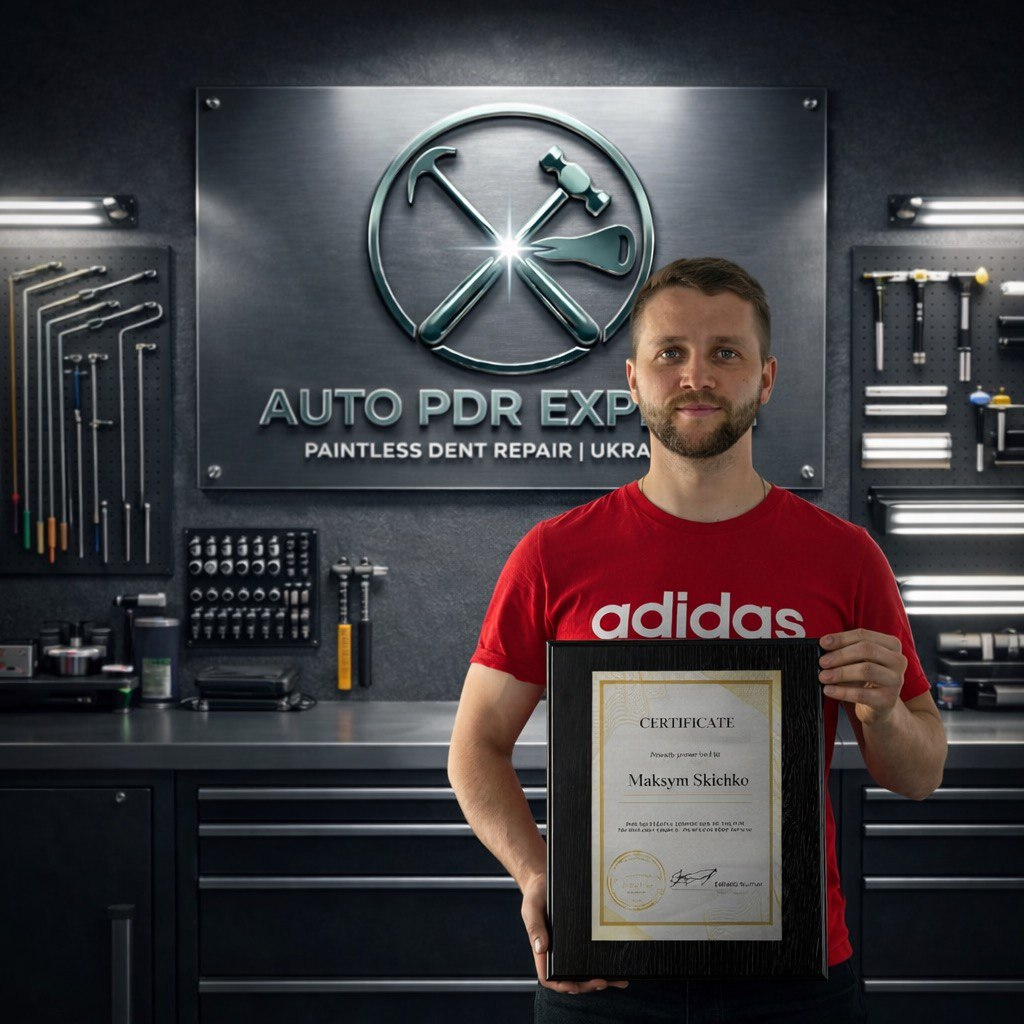
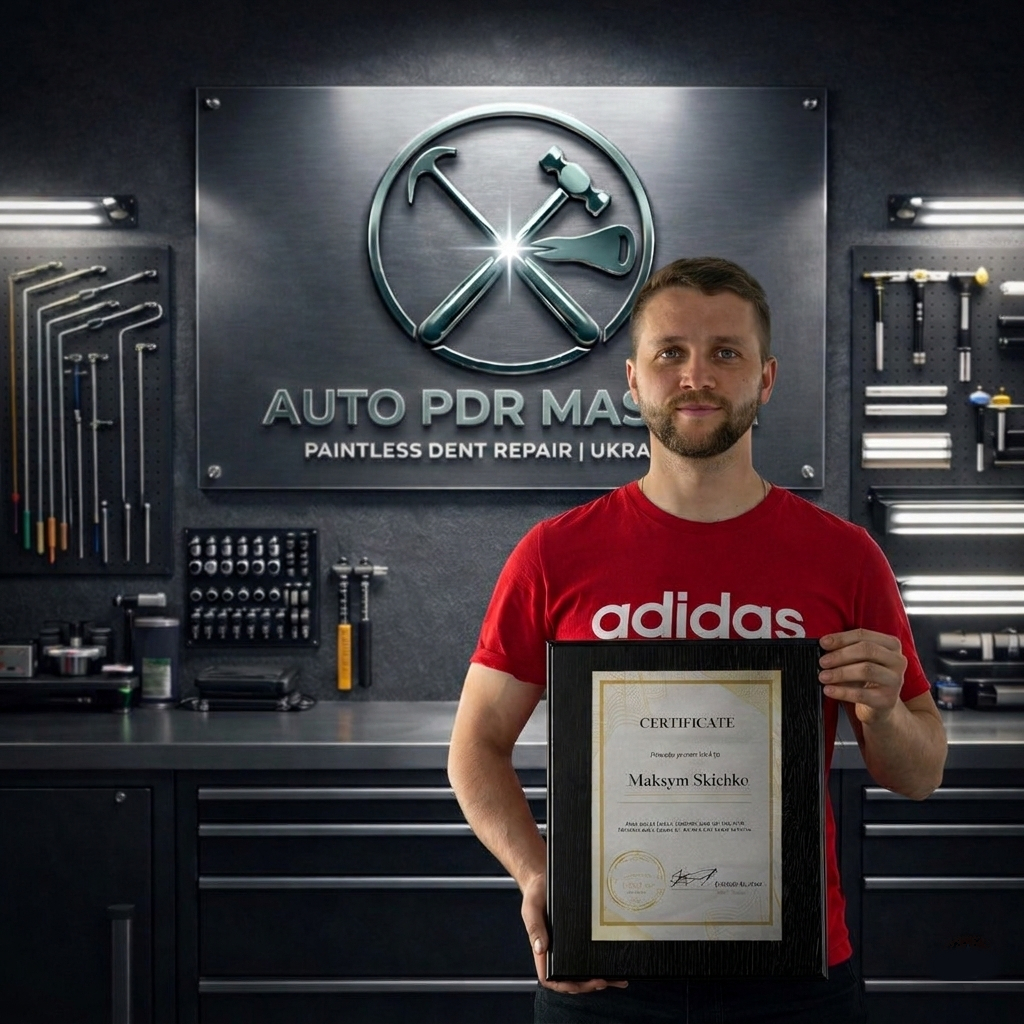
renew of service name

Changed region(s): [[0.25, 0.375, 0.6562, 0.4375]]

diff --git a/src/components/Awards.tsx b/src/components/Awards.tsx
@@ -1,34 +1,21 @@
 import { motion, AnimatePresence } from "motion/react";
 import { useEffect, useState } from "react";
 
-const awards = [
-  {
-    title: "Нагорода 1",
-    description: "Опис нагороди 1",
-    image: "images/certificate.jpg",
-    year: "2024",
-    category: "Якість",
-  },
-  {
-    title: "Нагорода 2",
-    description: "Опис нагороди 2",
-    image: "images/certificate.jpg",
-    year: "2023",
-    category: "Сервіс",
-  },
-];
+const award = {
+  title: "Диплом",
+  description: "Опис диплому",
+  image: "images/certificate.jpg",
+  year: "2024",
+  category: "Якість",
+};
 
 export const Awards = () => {
-  const [selected, setSelected] = useState<number | null>(null);
+  const [lightbox, setLightbox] = useState(false);
 
   useEffect(() => {
-    if (selected !== null) {
-      document.body.style.overflow = "hidden";
-    } else {
-      document.body.style.overflow = "";
-    }
+    document.body.style.overflow = lightbox ? "hidden" : "";
     return () => { document.body.style.overflow = ""; };
-  }, [selected]);
+  }, [lightbox]);
 
   return (
     <section className="bg-[var(--main-black)] py-24 relative overflow-hidden" id="awards">
@@ -36,128 +23,126 @@ export const Awards = () => {
       <div className="absolute top-1/2 left-0 w-96 h-96 bg-[var(--main-green)]/6 rounded-full blur-[150px] pointer-events-none -translate-y-1/2" />
 
       <div className="max-w-7xl mx-auto px-6 sm:px-10 lg:px-16">
-
-        {/* Заголовок */}
-        <div className="flex flex-col items-center text-center mb-16">
-          <motion.span
-            className="text-[var(--main-green-light)] text-sm font-semibold tracking-[0.3em] uppercase mb-4"
-            initial={{ opacity: 0, y: 20 }} whileInView={{ opacity: 1, y: 0 }}
-            transition={{ duration: 0.6 }} viewport={{ once: true }}
+        <motion.div
+          className="flex flex-col lg:flex-row gap-12 items-center"
+          initial={{ opacity: 0, y: 40 }}
+          whileInView={{ opacity: 1, y: 0 }}
+          transition={{ duration: 0.8 }}
+          viewport={{ once: true, amount: 0.1 }}
+        >
+          {/* Фото диплому */}
+          <motion.div
+            className="relative w-full lg:w-2/5 flex-shrink-0 cursor-pointer group"
+            onClick={() => setLightbox(true)}
+            whileHover={{ y: -4 }}
+            transition={{ duration: 0.3 }}
           >
-            Визнання
-          </motion.span>
+            <div className="absolute -top-3 -left-3 w-10 h-10 border-t-2 border-l-2 border-[var(--main-green)] z-10" />
+            <div className="absolute -bottom-3 -right-3 w-10 h-10 border-b-2 border-r-2 border-[var(--main-green)] z-10" />
 
-          <div className="flex flex-row items-center gap-4 mb-4">
-            <motion.div className="h-px w-12 bg-[var(--main-green-muted)]"
-              initial={{ scaleX: 0 }} whileInView={{ scaleX: 1 }}
-              transition={{ duration: 0.6, delay: 0.2 }} viewport={{ once: true }} />
-            <motion.h2
-              className="text-4xl sm:text-5xl font-black text-white"
-              style={{ fontFamily: "var(--font-display)" }}
-              initial={{ opacity: 0, y: 20 }} whileInView={{ opacity: 1, y: 0 }}
-              transition={{ duration: 0.6, delay: 0.2 }} viewport={{ once: true }}
-            >
-              Наші <span className="text-[var(--main-green-light)]">нагороди</span>
-            </motion.h2>
-            <motion.div className="h-px w-12 bg-[var(--main-green-muted)]"
-              initial={{ scaleX: 0 }} whileInView={{ scaleX: 1 }}
-              transition={{ duration: 0.6, delay: 0.2 }} viewport={{ once: true }} />
-          </div>
+            <div className="overflow-hidden rounded-sm border border-white/8 group-hover:border-[var(--main-green-muted)]/60 transition-colors duration-500">
+              <img
+                src={award.image}
+                alt={award.title}
+                className="w-full object-cover transition-transform duration-700 group-hover:scale-105"
+              />
+            </div>
 
-          <motion.p className="text-white/50 text-base max-w-xl"
-            initial={{ opacity: 0, y: 20 }} whileInView={{ opacity: 1, y: 0 }}
-            transition={{ duration: 0.6, delay: 0.3 }} viewport={{ once: true }}
-          >
-            Підтвердження нашої якості та професіоналізму
-          </motion.p>
-        </div>
+            {/* Збільшити підказка */}
+            <div className="absolute inset-0 flex items-center justify-center opacity-0 group-hover:opacity-100 transition-opacity duration-300">
+              <span className="bg-black/70 backdrop-blur-sm text-white text-xs tracking-widest uppercase px-4 py-2 border border-white/20 rounded-sm">
+                Переглянути ↗
+              </span>
+            </div>
 
-        {/* Картки */}
-        <div className="flex flex-col gap-6">
-          {awards.map((award, i) => (
-            <motion.div
-              key={i}
-              className="group relative border border-white/8 rounded-sm overflow-hidden
-                hover:border-[var(--main-green-muted)]/60 hover:bg-[var(--main-green)]/[0.03]
-                transition-all duration-500 cursor-pointer"
-              initial={{ opacity: 0, y: 40 }}
+            {/* Рік */}
+            <div className="absolute top-4 left-4 bg-[var(--main-green)] text-white text-xs font-bold px-3 py-1 tracking-widest z-10">
+              {award.year}
+            </div>
+          </motion.div>
+
+          {/* Текст */}
+          <div className="w-full lg:w-3/5">
+            <motion.span
+              className="text-[var(--main-green-light)] text-sm font-semibold tracking-[0.3em] uppercase mb-4 block"
+              initial={{ opacity: 0, y: 20 }}
               whileInView={{ opacity: 1, y: 0 }}
-              transition={{ duration: 0.7, delay: i * 0.15 }}
-              viewport={{ once: true, amount: 0.1 }}
-              onClick={() => setSelected(i)}
-              whileHover={{ y: -4 }}
+              transition={{ duration: 0.6, delay: 0.1 }}
+              viewport={{ once: true }}
             >
-              <div className="absolute top-0 left-0 w-0 h-0.5 bg-[var(--main-green)] group-hover:w-full transition-all duration-500 z-10" />
+              Визнання
+            </motion.span>
 
-              <div className="flex flex-col md:flex-row items-stretch">
+            <div className="flex flex-row items-start gap-3 mb-6">
+              <motion.div
+                className="w-1 bg-[var(--main-green)] rounded-full self-stretch"
+                initial={{ scaleY: 0 }}
+                whileInView={{ scaleY: 1 }}
+                transition={{ duration: 0.7, delay: 0.2 }}
+                viewport={{ once: true }}
+                style={{ originY: 0 }}
+              />
+              <motion.h2
+                className="text-4xl sm:text-5xl font-black text-white leading-tight"
+                style={{ fontFamily: "var(--font-display)" }}
+                initial={{ opacity: 0, x: -30 }}
+                whileInView={{ opacity: 1, x: 0 }}
+                transition={{ duration: 0.7, delay: 0.3 }}
+                viewport={{ once: true }}
+              >
+                Наші <span className="text-[var(--main-green-light)]">нагороди</span>
+              </motion.h2>
+            </div>
 
-                {/* Фото */}
-                <div className="relative w-full md:w-64 h-48 md:h-auto flex-shrink-0 overflow-hidden">
-                  <img
-                    src={award.image}
-                    alt={award.title}
-                    className="w-full h-full object-cover transition-transform duration-700 group-hover:scale-110"
-                  />
-                  <div className="absolute inset-0 bg-gradient-to-r from-transparent to-[var(--main-black)] hidden md:block" />
-                  <div className="absolute top-3 left-3 bg-[var(--main-green)] text-white text-xs font-bold px-3 py-1 tracking-widest">
-                    {award.year}
-                  </div>
-                </div>
+            <motion.span
+              className="inline-flex items-center gap-2 text-[var(--main-green-light)] text-xs font-semibold tracking-[0.2em] uppercase border border-[var(--main-green-muted)]/50 px-3 py-1.5 rounded-sm mb-6"
+              initial={{ opacity: 0, y: 10 }}
+              whileInView={{ opacity: 1, y: 0 }}
+              transition={{ duration: 0.5, delay: 0.35 }}
+              viewport={{ once: true }}
+            >
+              {award.category}
+            </motion.span>
 
-                {/* Контент */}
-                <div className="flex flex-col justify-center px-8 py-6 flex-1 bg-white/[0.01] group-hover:bg-white/[0.03] transition-colors duration-500">
-                  <div className="flex items-center gap-3 mb-3">
-                    <span className="text-[var(--main-green-light)] text-xs font-semibold tracking-[0.2em] uppercase border border-[var(--main-green-muted)]/50 px-2 py-0.5 rounded-sm">
-                      {award.category}
-                    </span>
-                  </div>
+            <motion.p
+              className="text-white/50 leading-relaxed text-base mb-8"
+              initial={{ opacity: 0, y: 20 }}
+              whileInView={{ opacity: 1, y: 0 }}
+              transition={{ duration: 0.6, delay: 0.4 }}
+              viewport={{ once: true }}
+            >
+              {award.description}
+            </motion.p>
 
-                  <h3
-                    className="text-2xl font-black text-white mb-3 group-hover:text-[var(--main-green-light)] transition-colors duration-300"
-                    style={{ fontFamily: "var(--font-display)" }}
-                  >
-                    {award.title}
-                  </h3>
-
-                  <p className="text-white/50 leading-relaxed text-sm max-w-xl group-hover:text-white/70 transition-colors duration-300">
-                    {award.description}
-                  </p>
-
-                  <div className="mt-4">
-                    <span className="opacity-0 group-hover:opacity-100 transition-opacity duration-300 flex items-center gap-2 text-[var(--main-green-light)] text-xs font-semibold tracking-widest uppercase">
-                      Переглянути сертифікат →
-                    </span>
-                  </div>
-                </div>
-
-                {/* Номер */}
-                <div className="hidden lg:flex items-center justify-center w-24 border-l border-white/5">
-                  <span
-                    className="text-6xl font-black text-white/5 group-hover:text-[var(--main-green)]/10 transition-colors duration-500 rotate-90"
-                    style={{ fontFamily: "var(--font-display)" }}
-                  >
-                    {String(i + 1).padStart(2, "0")}
-                  </span>
-                </div>
-              </div>
-            </motion.div>
-          ))}
-        </div>
+            <motion.button
+              className="text-[var(--main-green-light)] text-sm tracking-widest uppercase border border-[var(--main-green-muted)]/50 px-6 py-3 rounded-sm hover:bg-[var(--main-green)]/10 transition-colors cursor-pointer"
+              onClick={() => setLightbox(true)}
+              initial={{ opacity: 0, y: 10 }}
+              whileInView={{ opacity: 1, y: 0 }}
+              transition={{ duration: 0.5, delay: 0.5 }}
+              viewport={{ once: true }}
+              whileHover={{ scale: 1.05 }}
+              whileTap={{ scale: 0.95 }}
+            >
+              Переглянути сертифікат →
+            </motion.button>
+          </div>
+        </motion.div>
       </div>
 
       {/* Lightbox */}
       <AnimatePresence>
-        {selected !== null && (
+        {lightbox && (
           <motion.div
             className="fixed inset-0 z-50 bg-black/95 backdrop-blur-md overflow-y-auto"
             initial={{ opacity: 0 }} animate={{ opacity: 1 }} exit={{ opacity: 0 }}
-            onClick={() => setSelected(null)}
+            onClick={() => setLightbox(false)}
           >
             <button
               className="fixed top-4 right-4 z-[60] text-white/60 hover:text-white text-sm tracking-widest uppercase
                 cursor-pointer transition-colors border border-white/20 px-4 py-2 rounded-sm
                 hover:border-[var(--main-green-muted)] bg-black/60 backdrop-blur-sm"
-              onClick={() => setSelected(null)}
+              onClick={() => setLightbox(false)}
             >
               ✕
             </button>
@@ -177,38 +162,18 @@ export const Awards = () => {
                 <div className="absolute -bottom-2 -right-2 w-8 h-8 border-b-2 border-r-2 border-[var(--main-green)] z-10" />
 
                 <img
-                  src={awards[selected].image}
-                  alt={awards[selected].title}
+                  src={award.image}
+                  alt={award.title}
                   className="w-full object-contain rounded-sm"
                 />
 
-                <div className="flex justify-between items-center mt-6 border border-white/10 rounded-sm">
-                  <button
-                    className="flex-1 text-white/60 hover:text-[var(--main-green-light)] hover:bg-white/5 transition-all text-sm tracking-widest uppercase cursor-pointer py-4 px-6 text-left border-r border-white/10"
-                    onClick={() => setSelected(s => s! > 0 ? s! - 1 : awards.length - 1)}
-                  >
-                    ← Попередній
-                  </button>
-                  <span className="text-white/30 text-sm px-6 whitespace-nowrap" style={{ fontFamily: "var(--font-display)" }}>
-                    {String(selected + 1).padStart(2, "0")} / {String(awards.length).padStart(2, "0")}
-                  </span>
-                  <button
-                    className="flex-1 text-white/60 hover:text-[var(--main-green-light)] hover:bg-white/5 transition-all text-sm tracking-widest uppercase cursor-pointer py-4 px-6 text-right border-l border-white/10"
-                    onClick={() => setSelected(s => s! < awards.length - 1 ? s! + 1 : 0)}
-                  >
-                    Наступний →
-                  </button>
-                </div>
-
-                <div className="mt-4 flex items-center justify-between px-1">
-                  <div>
-                    <p className="text-[var(--main-green-light)] text-xs tracking-widest uppercase mb-1">
-                      {awards[selected].category} · {awards[selected].year}
-                    </p>
-                    <p className="text-white font-bold" style={{ fontFamily: "var(--font-display)" }}>
-                      {awards[selected].title}
-                    </p>
-                  </div>
+                <div className="mt-4 px-1">
+                  <p className="text-[var(--main-green-light)] text-xs tracking-widest uppercase mb-1">
+                    {award.category} · {award.year}
+                  </p>
+                  <p className="text-white font-bold" style={{ fontFamily: "var(--font-display)" }}>
+                    {award.title}
+                  </p>
                 </div>
               </motion.div>
             </div>

diff --git a/src/components/Hero.tsx b/src/components/Hero.tsx
@@ -3,7 +3,6 @@ import { motion } from "motion/react";
 import { TelegramIcon } from "../features/TelegramIcon";
 import { Header } from "./Header";
 import { useScreenSize } from "../hooks/useScreenSize";
-import { Link } from "react-scroll";
 
 export const Hero = () => {
   const { screenSize } = useScreenSize();
@@ -69,7 +68,7 @@ export const Hero = () => {
             transition={{ duration: 0.8, ease: "easeOut", delay: 0.4 }}
           >
             Ласкаво просимо до{" "}
-            <span className="text-[var(--main-green-light)]">AUTO PDR EXPERT</span>
+            <span className="text-[var(--main-green-light)]">AUTO PDR MASTER</span>
           </motion.h1>
         </div>
 
@@ -136,7 +135,7 @@ export const Hero = () => {
           animate={{ opacity: 1, y: 0 }}
           transition={{ duration: 0.6, ease: "easeOut", delay: 1.1 }}
         >
-          <Link to="booking" smooth={true} duration={1000}>
+          <a href="https://t.me/+380688845858" target="_blank">
             <motion.button
               className="bg-[var(--main-green)] text-white px-6 lg:px-8 py-3 lg:py-4 rounded-sm 
                 tracking-widest font-semibold uppercase text-xs sm:text-sm cursor-pointer 
@@ -145,25 +144,13 @@ export const Hero = () => {
               whileHover={{ scale: 1.05 }}
               whileTap={{ scale: 0.95 }}
             >
-              <span className="relative z-10">Зарезервувати місце</span>
+              <span className="relative z-10">Оцінити пошкодження</span>
               <motion.div
                 className="absolute inset-0 bg-white/10"
                 initial={{ x: "-100%" }}
                 whileHover={{ x: "100%" }}
                 transition={{ duration: 0.4 }}
               />
-            </motion.button>
-          </Link>
-          <a href="https://t.me/+380688845858" target="_blank">
-            <motion.button
-              className="border border-[var(--main-green-muted)]/60 text-white/80 px-6 lg:px-8 py-3 lg:py-4 
-              rounded-sm tracking-widest font-semibold uppercase text-xs sm:text-sm cursor-pointer 
-              backdrop-blur-sm transition-all duration-300 
-              hover:border-[var(--main-green)] hover:text-[var(--main-green-light)]"
-              whileHover={{ scale: 1.05 }}
-              whileTap={{ scale: 0.95 }}
-            >
-              Оцінити пошкодження
             </motion.button>
           </a>
         </motion.div>

diff --git a/src/pages/HomePage.tsx b/src/pages/HomePage.tsx
@@ -1,6 +1,5 @@
 import { About } from "../components/About"
 import { Awards } from "../components/Awards"
-import { BookForm } from "../components/BookForm"
 import { Footer } from "../components/Footer"
 import { Gallery } from "../components/Gallery"
 import { Hero } from "../components/Hero"
@@ -18,7 +17,6 @@ export const HomePage = () => {
       <Services />
       <Gallery />
       <Awards />
-      <BookForm />
       <Reviews />
       <Footer />
       <ScrollToTop/>

diff --git a/src/components/Footer.tsx b/src/components/Footer.tsx
@@ -164,7 +164,7 @@ export const Footer = () => {
             initial={{ opacity: 0 }} whileInView={{ opacity: 1 }}
             transition={{ duration: 0.6 }} viewport={{ once: true }}
           >
-            © {new Date().getFullYear()} CarFix PDR. Всі права захищені.
+            © {new Date().getFullYear()} Auto PDR Master. Всі права захищені.
           </motion.p>
 
           <motion.ul
